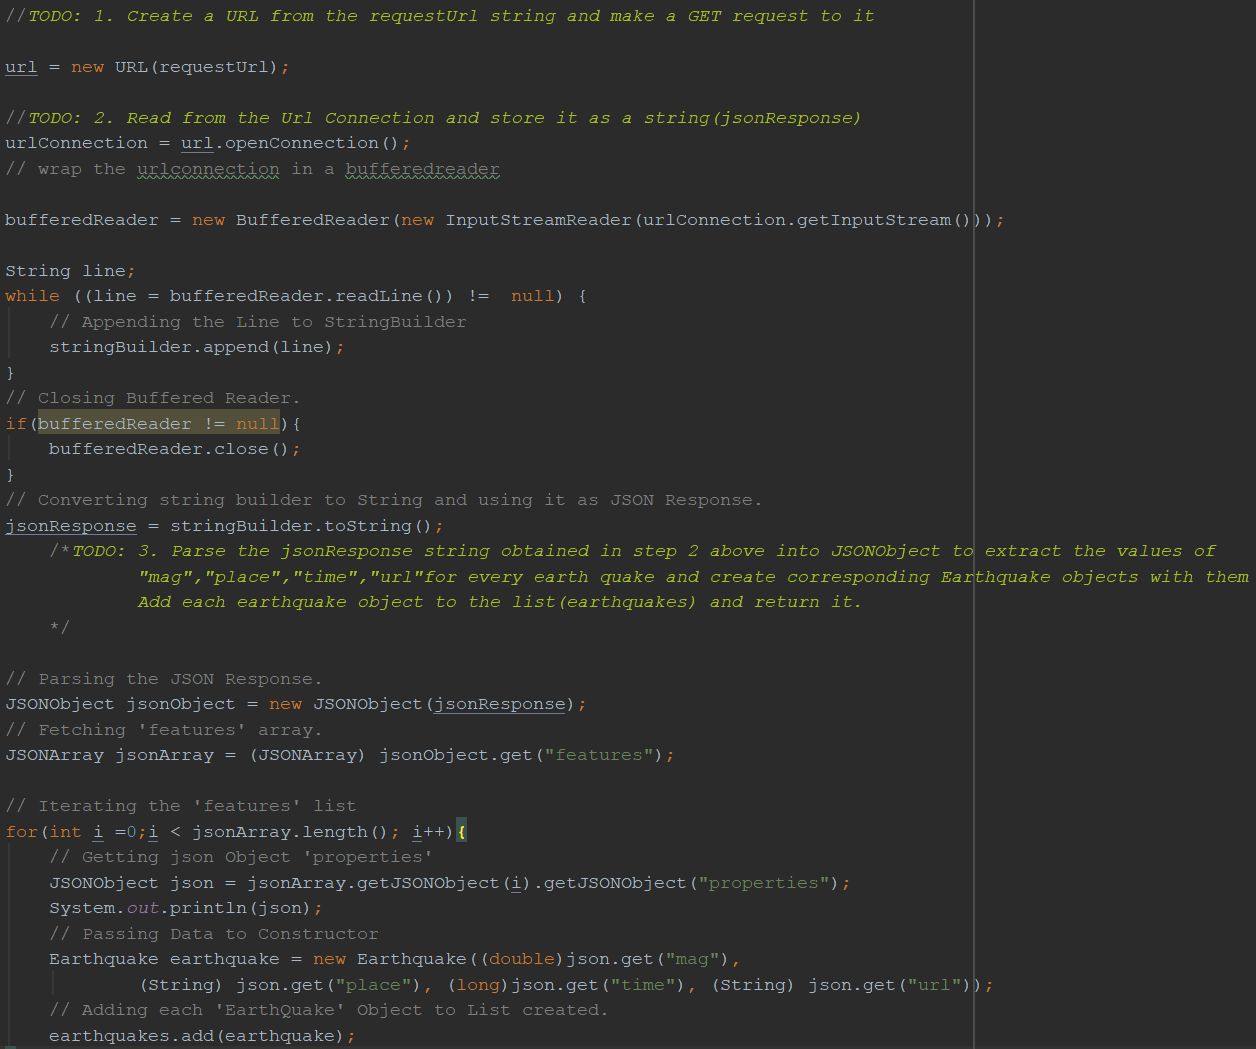
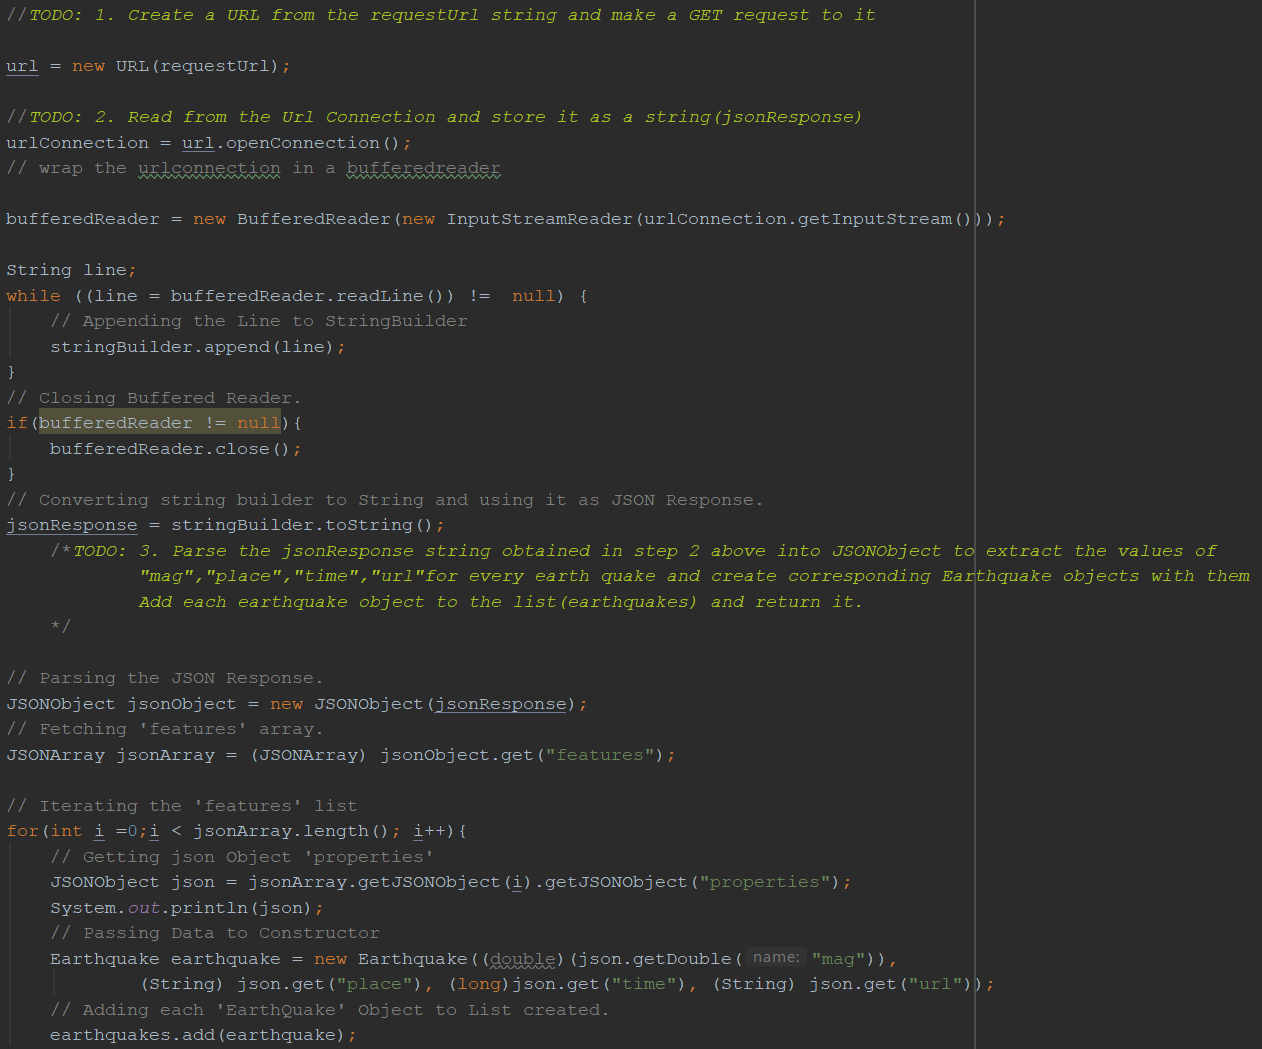
Editing

diff --git a/M2_ICP_3/EarthquakeApp/app/src/main/java/com/example/vijaya/earthquakeapp/QueryUtils.java b/M2_ICP_3/EarthquakeApp/app/src/main/java/com/example/vijaya/earthquakeapp/QueryUtils.java
@@ -83,7 +83,7 @@ public class QueryUtils {
                 JSONObject json = jsonArray.getJSONObject(i).getJSONObject("properties");
                 System.out.println(json);
                 // Passing Data to Constructor
-                Earthquake earthquake = new Earthquake((double)json.get("mag"),
+                Earthquake earthquake = new Earthquake((double)(json.getDouble("mag")),
                         (String) json.get("place"), (long)json.get("time"), (String) json.get("url"));
                 // Adding each 'EarthQuake' Object to List created.
                 earthquakes.add(earthquake);
